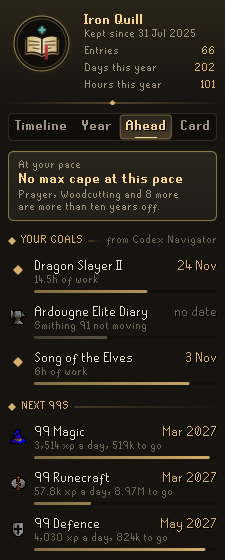
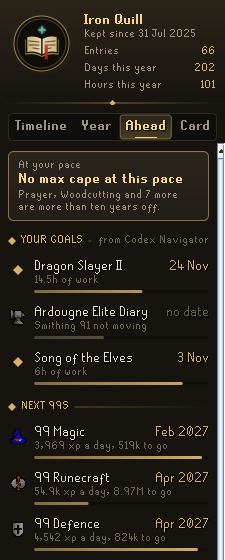
Take the Ahead pace over the last four weeks, days off or not
The pace keeps the first reading of each of the last 29 days played, so with days
off it reached back further than four weeks and the footer said the last 34 days
while the page promised four weeks. The first reading inside the four weeks now
stands for the day they opened, and the footer says the last four weeks.

diff --git a/src/main/java/com/codex/annals/core/Pace.java b/src/main/java/com/codex/annals/core/Pace.java
@@ -62,6 +62,39 @@ public class Pace
 		days.removeIf(s -> s == null || s.xp == null);
 	}
 
+	/**
+	 * The reading a pace of the last {@link #DAYS} calendar days is taken from. The readings kept
+	 * are of days played, so with days off they reach back further than four weeks; then the first
+	 * reading inside the window stands for the day it opened, since nothing was played between
+	 * the reading before it and the window. Without an earlier reading, the oldest; null with none.
+	 */
+	Snap from(long today)
+	{
+		long open = today - DAYS;
+		Snap earlier = null;
+		for (Snap s : days)
+		{
+			if (s.d >= open)
+			{
+				return s;
+			}
+			earlier = s;
+		}
+		return earlier;
+	}
+
+	/** Calendar days a pace from {@link #from} spans: four weeks once the readings reach back that far. */
+	int window(long today)
+	{
+		Snap from = from(today);
+		if (from == null)
+		{
+			return 0;
+		}
+		Snap oldest = oldest();
+		return oldest.d < today - DAYS && from.d >= today - DAYS ? DAYS : (int) (today - from.d);
+	}
+
 	/** The oldest reading kept, or null. */
 	Snap oldest()
 	{

diff --git a/src/test/java/com/codex/annals/core/AheadTest.java b/src/test/java/com/codex/annals/core/AheadTest.java
@@ -65,6 +65,30 @@ public class AheadTest
 	}
 
 	@Test
+	public void thePaceIsTheLastFourWeeksEvenWithDaysOff()
+	{
+		// Played every other day for eight weeks: the 29 readings kept reach back 56 days, but
+		// the pace is the last four weeks' alone, as the page says.
+		long start = at(2026, 3, 1, 12);
+		Annals annals = begun(start, 80, 2_000_000L);
+		long xp = 2_000_000L;
+		for (int d = 2; d <= 56; d += 2)
+		{
+			long now = start + d * DAY;
+			annals.tick(now, 600, UTC);
+			xp += 100_000;
+			annals.stat("Slayer", xp, Experience.level(xp), now + 3_600_000L, UTC, true);
+		}
+		LocalDate today = LocalDate.of(2026, 3, 1).plusDays(57);
+		annals.tick(start + 57 * DAY, 600, UTC);
+		Ahead ahead = Ahead.of(annals, today, UTC);
+		assertTrue(ahead.isRecent());
+		assertEquals(28, ahead.getDays());
+		// Fourteen days played in the last 28, 100k each: 50k a day.
+		assertEquals(50_000, ahead.getNineties().get(0).getPerDay(), 1);
+	}
+
+	@Test
 	public void tooEarlyForAPace()
 	{
 		long start = at(2026, 3, 1, 12);

diff --git a/src/main/java/com/codex/annals/core/Ahead.java b/src/main/java/com/codex/annals/core/Ahead.java
@@ -97,8 +97,9 @@ public final class Ahead
 
 	public static Ahead of(Annals annals, LocalDate today, ZoneId zone)
 	{
-		Pace.Snap oldest = annals.pace == null ? null : annals.pace.oldest();
-		int paceDays = oldest == null ? 0 : (int) (today.toEpochDay() - oldest.d);
+		// Four weeks of calendar days, however many of them were played.
+		Pace.Snap oldest = annals.pace == null ? null : annals.pace.from(today.toEpochDay());
+		int paceDays = oldest == null ? 0 : annals.pace.window(today.toEpochDay());
 		Year year = annals.getYear(today.getYear());
 		LocalDate begun = annals.isBegun() ? Instant.ofEpochMilli(annals.begunAt).atZone(zone).toLocalDate() : today;
 		LocalDate yearStart = begun.getYear() == today.getYear() ? begun : today.withDayOfYear(1);

diff --git a/src/main/java/com/codex/annals/ui/AheadView.java b/src/main/java/com/codex/annals/ui/AheadView.java
@@ -130,7 +130,7 @@ final class AheadView
 				stack.add(row(m, today, icons, Theme.KILLS, -1, pace + ", " + Format.number(m.getRemaining()) + " to go"));
 			}
 		}
-		String basis = ahead.isRecent() ? "the last " + ahead.getDays() + " days" : "this year so far (" + ahead.getDays() + " days)";
+		String basis = ahead.isRecent() ? (ahead.getDays() == 28 ? "the last four weeks" : "the last " + ahead.getDays() + " days") : "this year so far (" + ahead.getDays() + " days)";
 		stack.add(Ui.wrapped("Paced on " + basis + ", every day counted whether you played or not. Kill counts go by this year's kills."
 				+ (goals.isEmpty() ? " Goals you pin in Codex Navigator are dated here too." : ""),
 			Theme.small(), Theme.TEXT_FAINT, Views.WIDTH - 10));

diff --git a/src/main/java/com/codex/annals/core/Annals.java b/src/main/java/com/codex/annals/core/Annals.java
@@ -206,7 +206,6 @@ public class Annals
 		return written;
 	}
 
-	/** Every week kept, oldest first. Read only. */
 	/**
 	 * Hours played a day over about the last four weeks, days off included, from the weeks kept;
 	 * this year's so far until the annals have a week of play to go on. 0 when nothing is known.
@@ -243,6 +242,7 @@ public class Annals
 		return yearDays < Ahead.MIN_DAYS ? 0 : year.playedMs / 3_600_000.0 / yearDays;
 	}
 
+	/** Every week kept, oldest first. Read only. */
 	public List<Week> getWeeks()
 	{
 		return weeks == null ? Collections.emptyList() : Collections.unmodifiableList(weeks);

diff --git a/src/main/java/com/codex/annals/core/Goals.java b/src/main/java/com/codex/annals/core/Goals.java
@@ -86,7 +86,7 @@ public final class Goals
 			return next;
 		}
 
-		/** Levels still needed, by skill name. */
+		/** The levels it still needs, by skill name, as the level to reach ("Agility": 60). */
 		public Map<String, Integer> getSkills()
 		{
 			return skills;
